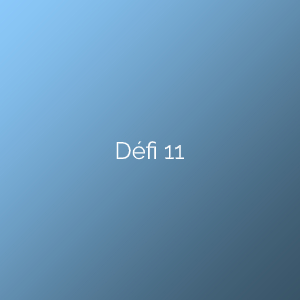
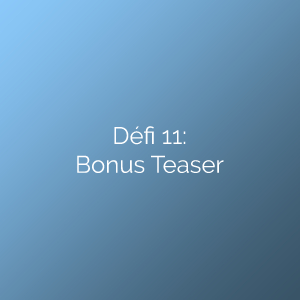
add défi11 -- Bonus teaser

Changed region(s): [[0.24, 0.42, 0.75, 0.6]]

diff --git a/index.html b/index.html
@@ -222,7 +222,7 @@ License URL: http://creativecommons.org/licenses/by/3.0/
 					<a href="#" ><img src="images/p11.jpg" class="img-responsive" alt="/">
 						<div class="textbox">
 							<br/>
-							<div class="button"><a href="images/p11.jpg" >VIEW</a></div>
+							<div class="button"><a href="https://www.youtube.com/watch?v=1xJsxf-GZbY&feature=youtu.be" >VIEW</a></div>
 						</div>
 				</div></a>
 				<div class="clearfix"> </div>
